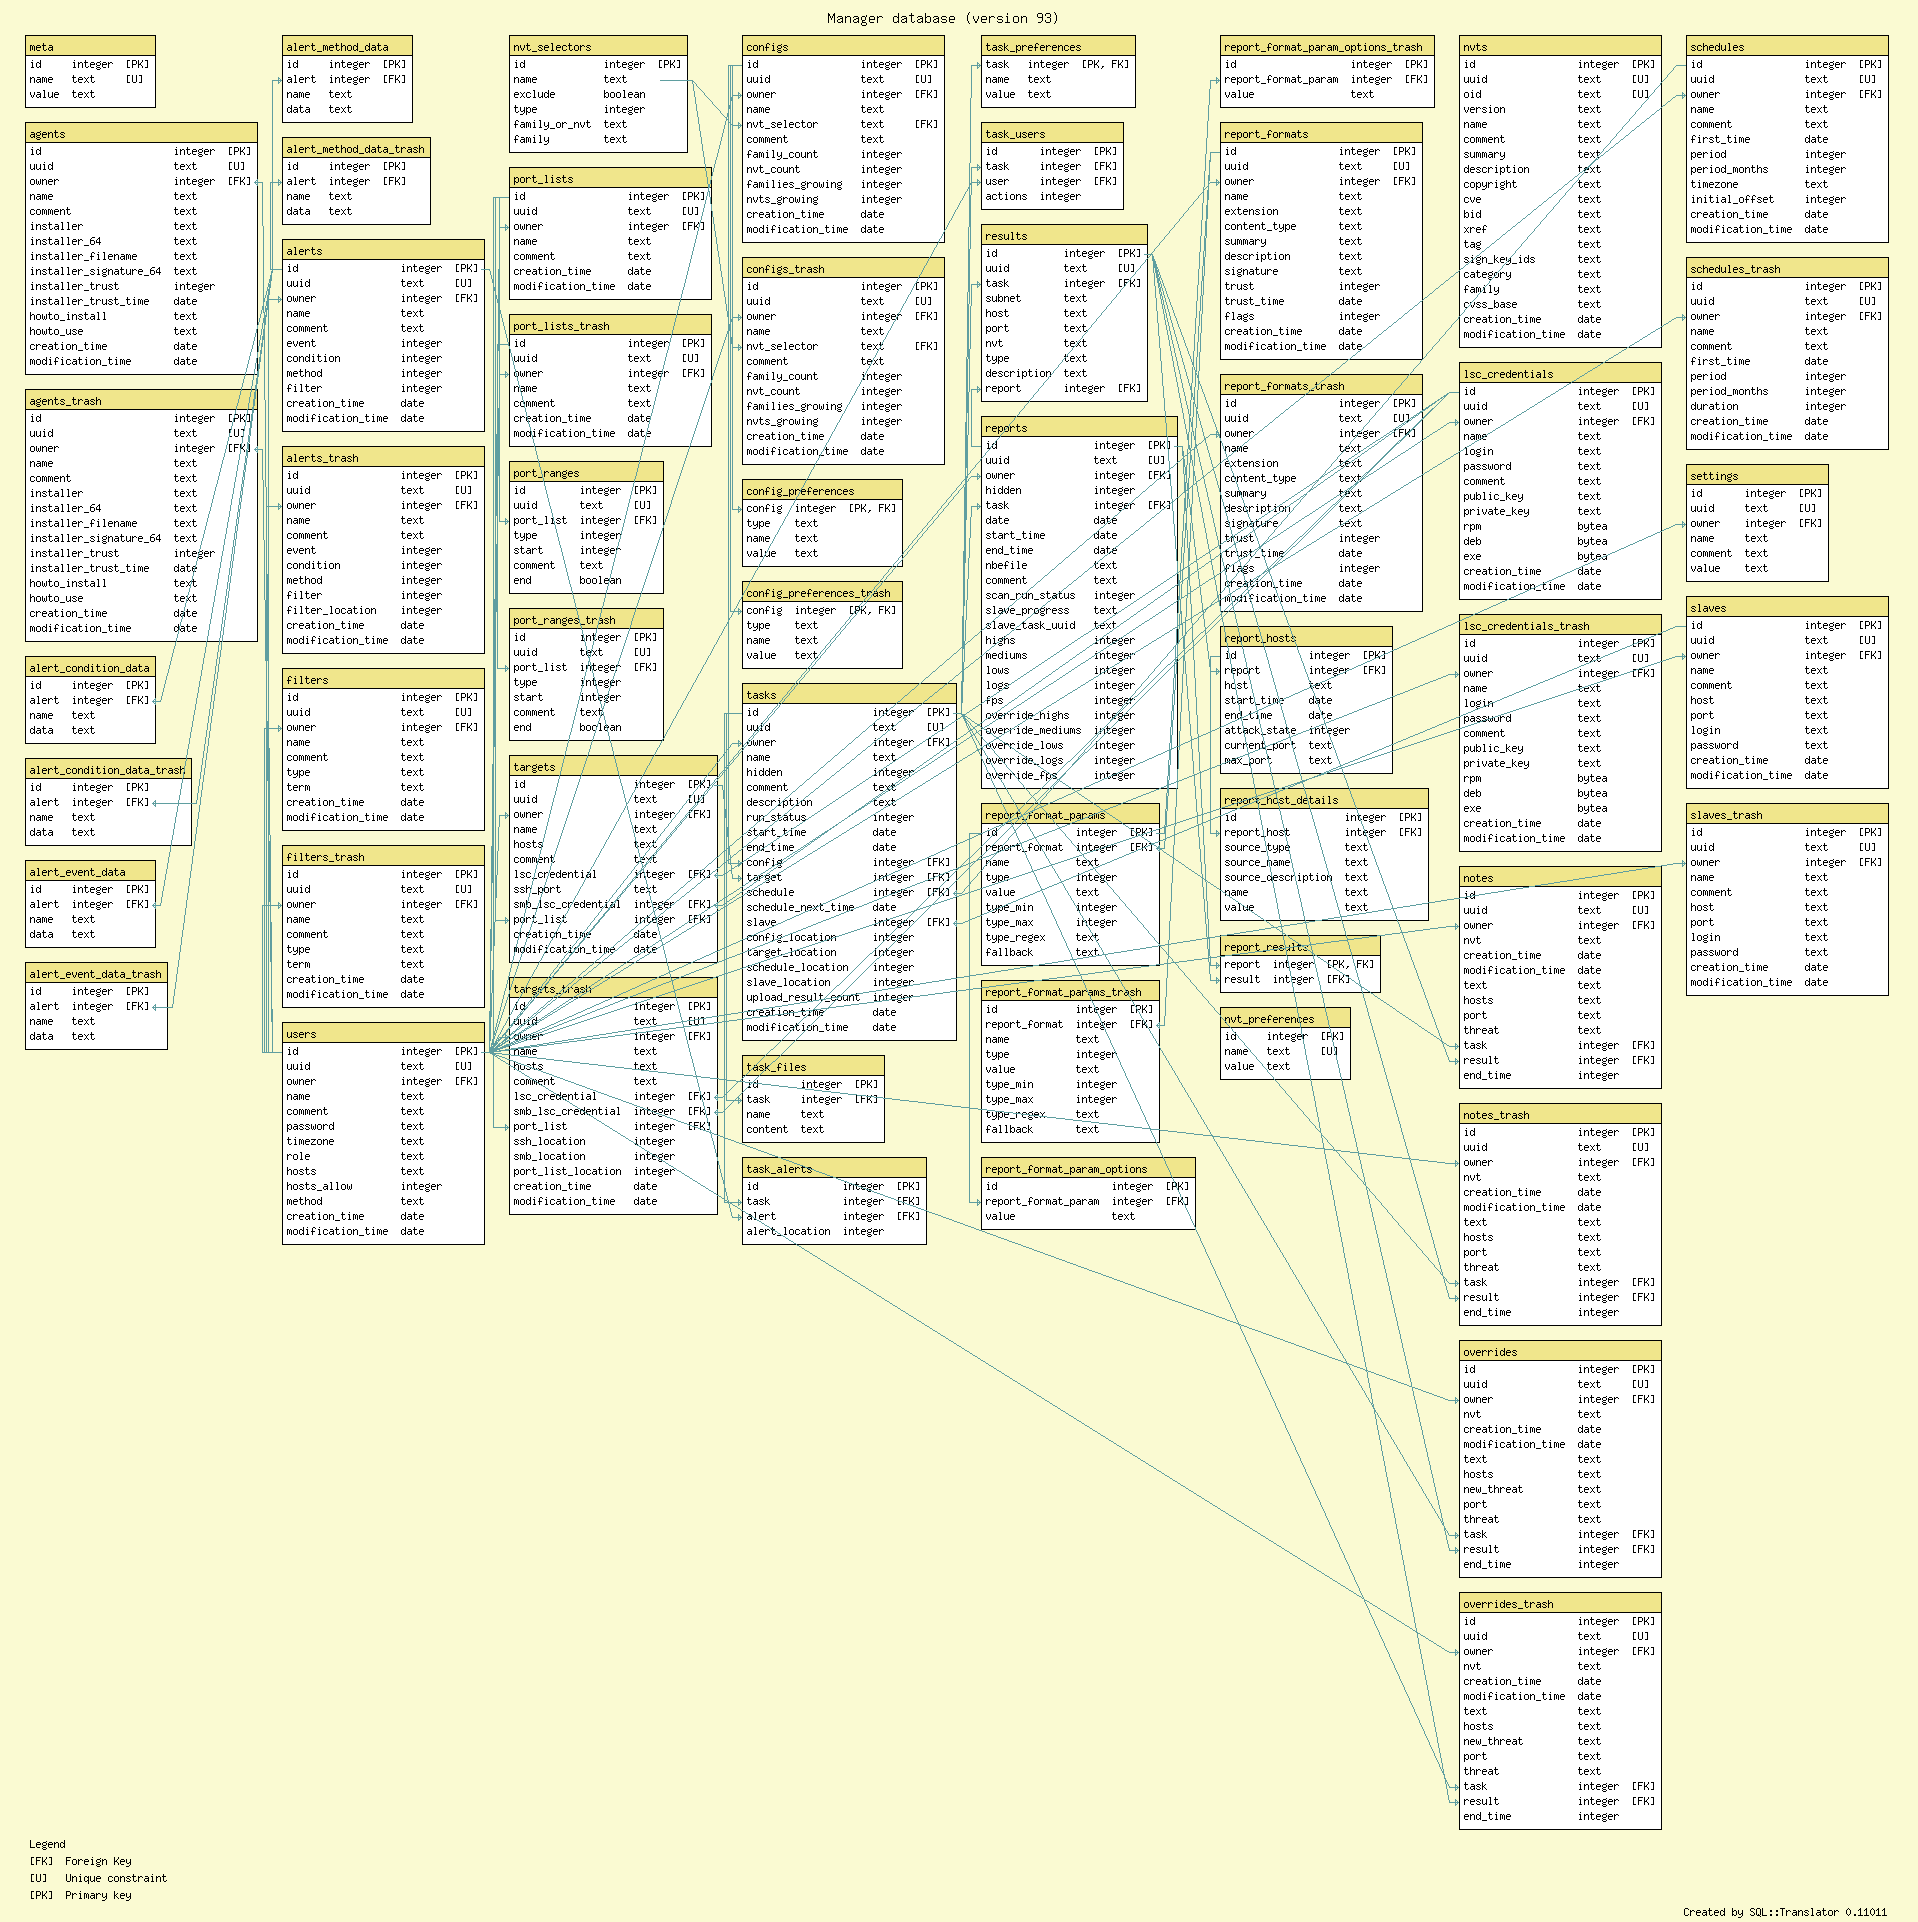
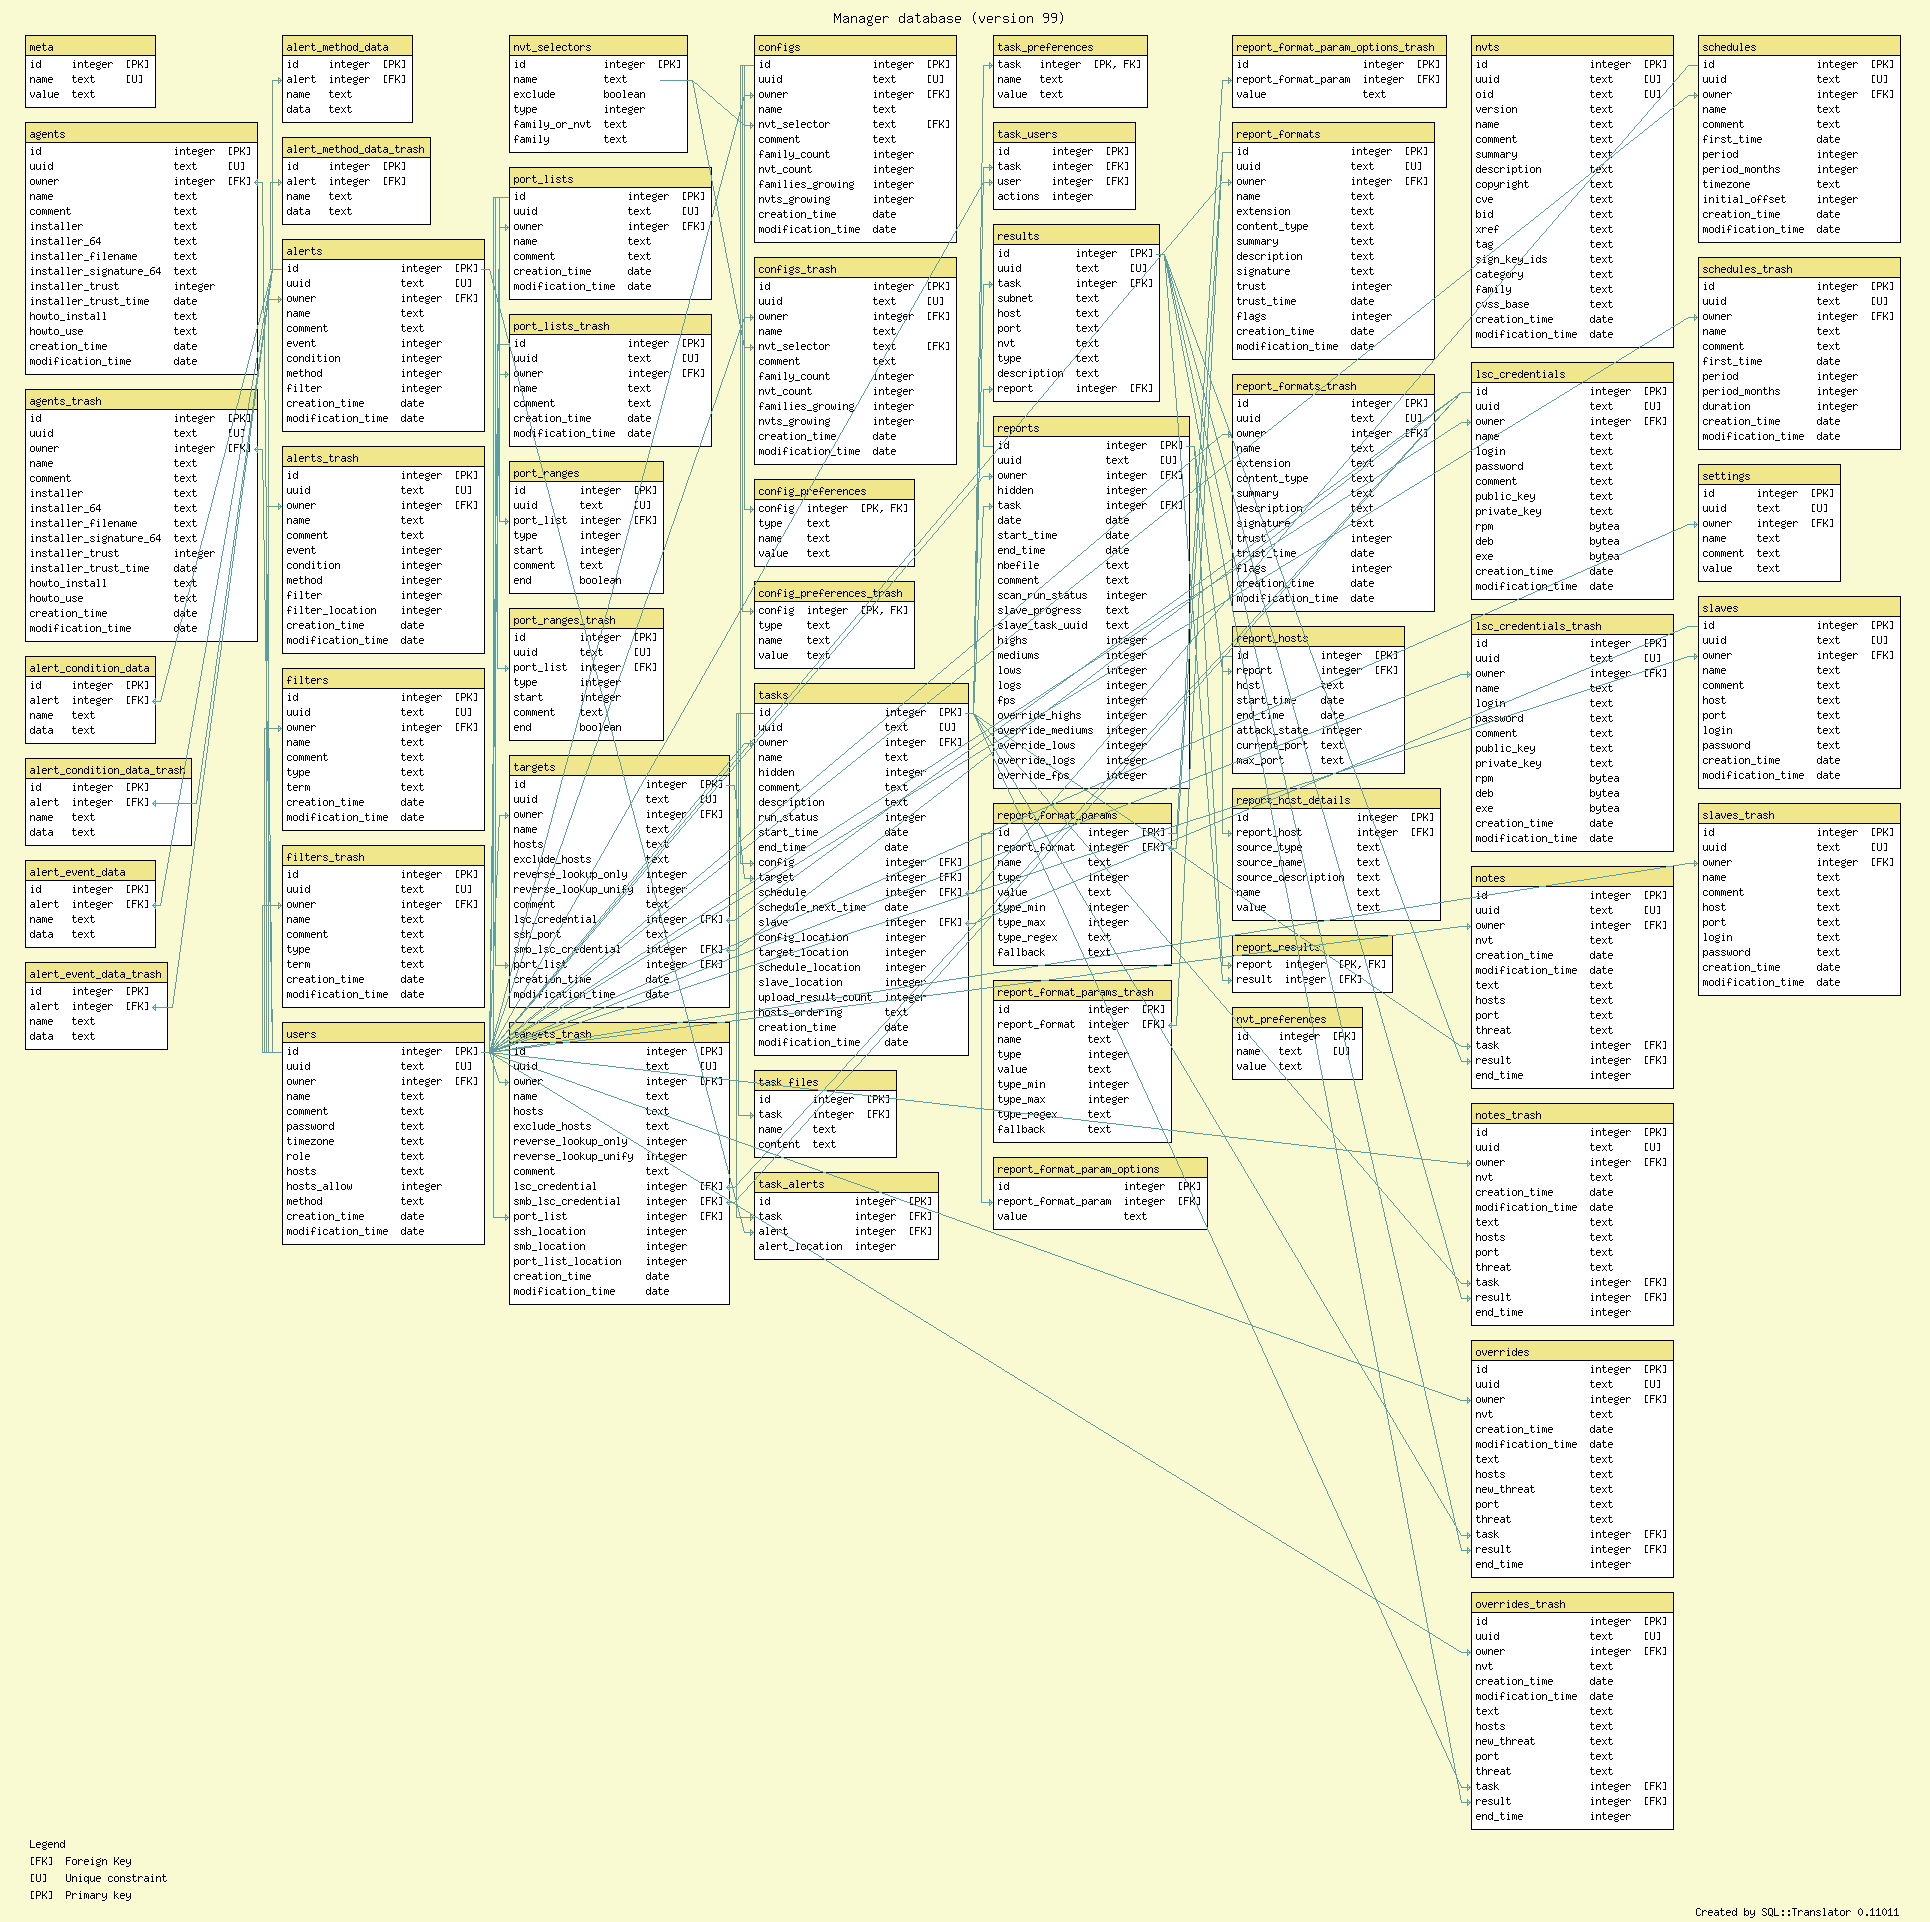
Remove slice_network_addresses and reverse_lookup config preferences. Hence increase database version to 99.  Add database migration from version 98 to 99.
* CMakeLists.txt (OPENVASMD_DATABASE_VERSION): Increase to 99.

* src/manage_migrators.c (migrate_98_to_99): New function.
(database_migrators): Add migrate_98_to_99.

* src/manage_sql.c (setup_full_config_prefs): Remove reverse_lookup
config preference.

* doc/db.png: Update for version changes.

* doc/db_postgres.sql (tasks, targets, targets_trash): Update for
previously added columns.

git-svn-id: svn+ssh://scm.wald.intevation.org/openvas/trunk/openvas-manager@17846 423fd1db-d629-0410-8442-d21db03e70f4

diff --git a/src/manage_migrators.c b/src/manage_migrators.c
@@ -7627,6 +7627,45 @@ migrate_97_to_98 ()
 }
 
 /**
+ * @brief Migrate the database from version 98 to version 99.
+ *
+ * @return 0 success, -1 error.
+ */
+int
+migrate_98_to_99 ()
+{
+  sql ("BEGIN EXCLUSIVE;");
+
+  /* Ensure that the database is currently version 98. */
+
+  if (manage_db_version () != 98)
+    {
+      sql ("ROLLBACK;");
+      return -1;
+    }
+
+  /* Update the database. */
+
+  /* Remove reverse_lookup and slice_network_addresses scanner preferences. */
+
+  sql ("DELETE FROM config_preferences WHERE name = 'reverse_lookup';");
+  sql ("DELETE FROM config_preferences"
+       " WHERE name = 'slice_network_addresses';");
+  sql ("DELETE FROM config_preferences_trash WHERE name = 'reverse_lookup';");
+  sql ("DELETE FROM config_preferences_trash"
+       " WHERE name = 'slice_network_addresses';");
+
+
+  /* Set the database version 99. */
+
+  set_db_version (99);
+
+  sql ("COMMIT;");
+
+  return 0;
+}
+
+/**
  * @brief Array of database version migrators.
  */
 static migrator_t database_migrators[]
@@ -7729,6 +7768,7 @@ static migrator_t database_migrators[]
     {96, migrate_95_to_96},
     {97, migrate_96_to_97},
     {98, migrate_97_to_98},
+    {99, migrate_98_to_99},
     /* End marker. */
     {-1, NULL}};
 

diff --git a/src/manage_sql.c b/src/manage_sql.c
@@ -9675,9 +9675,6 @@ setup_full_config_prefs (config_t config, int safe_checks,
   sql ("INSERT into config_preferences (config, type, name, value)"
        " VALUES (%i, 'SERVER_PREFS', 'auto_enable_dependencies', 'yes');",
        config);
-  sql ("INSERT into config_preferences (config, type, name, value)"
-       " VALUES (%i, 'SERVER_PREFS', 'reverse_lookup', 'no');",
-       config);
   if (optimize_test)
     sql ("INSERT into config_preferences (config, type, name, value)"
          " VALUES (%i, 'SERVER_PREFS', 'optimize_test', 'yes');",
